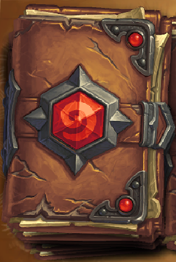
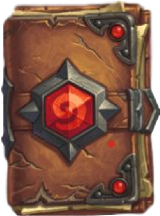
Updated Kobolds pack image

diff --git a/index.html b/index.html
@@ -390,7 +390,7 @@
 	    </table>
       </div>
       <div class="col-xs-4">
-        <img src="images/pack_kobolds.png" alt="K&C pack" width="148" height="216">
+        <img src="images/pack_kobolds.png" alt="K&C pack" width="160" height="216">
 	    <table class="tablePack">
 	      <tr>
 	        <td>Average dust =</td>
